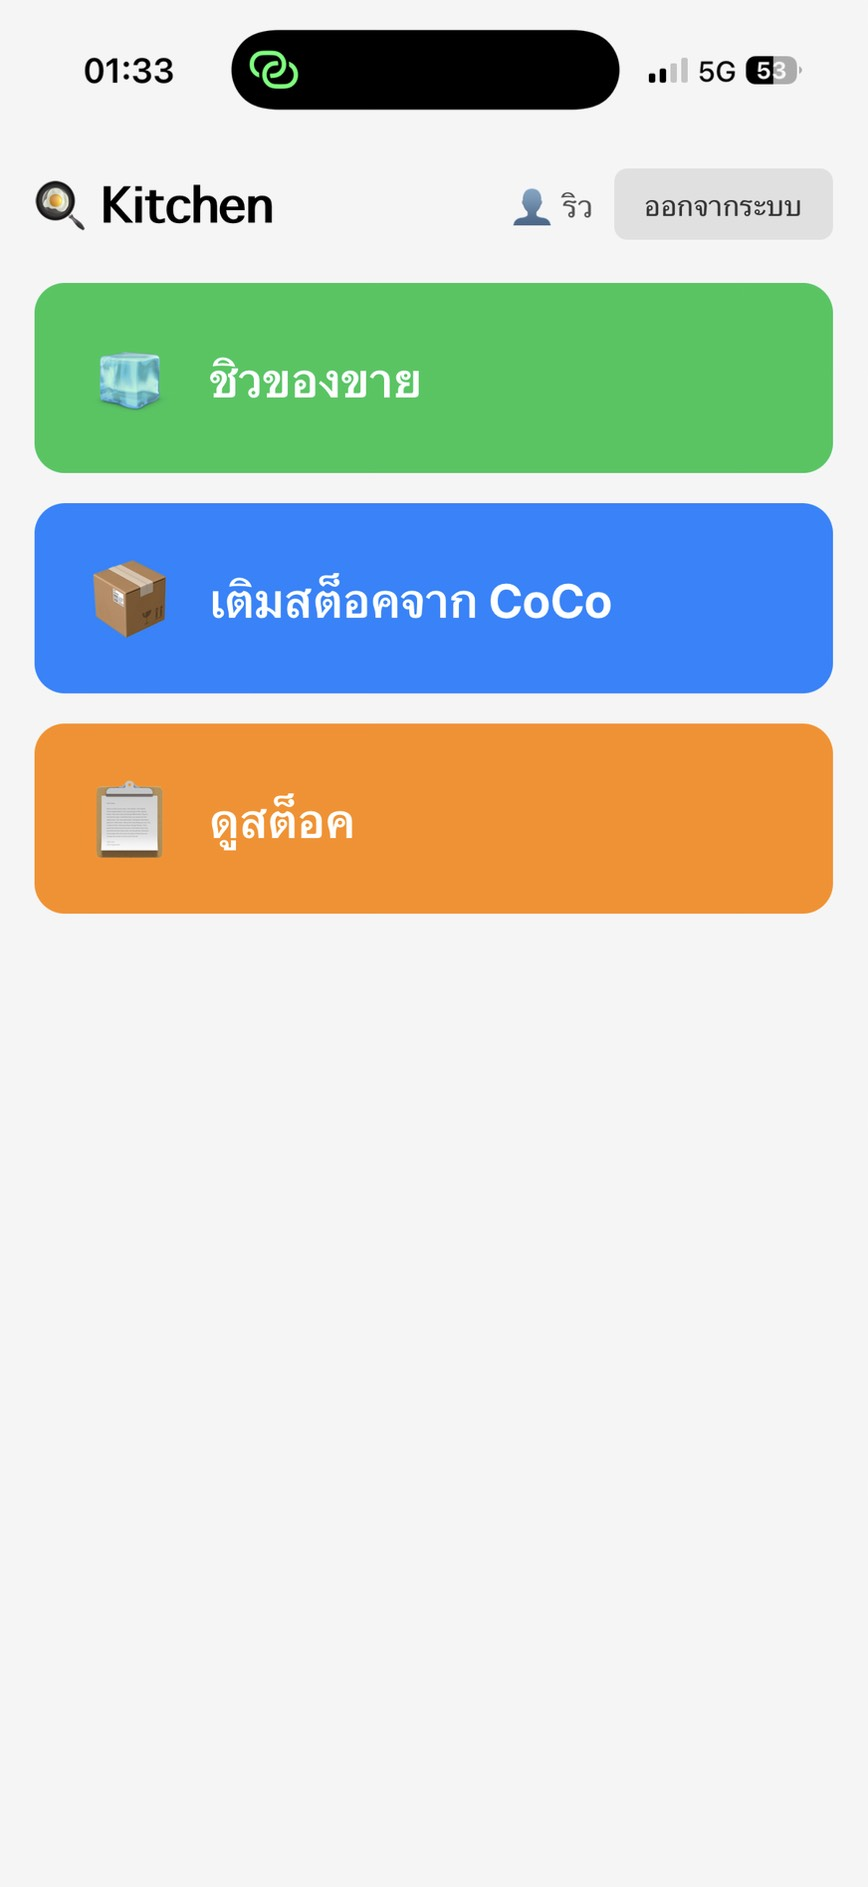
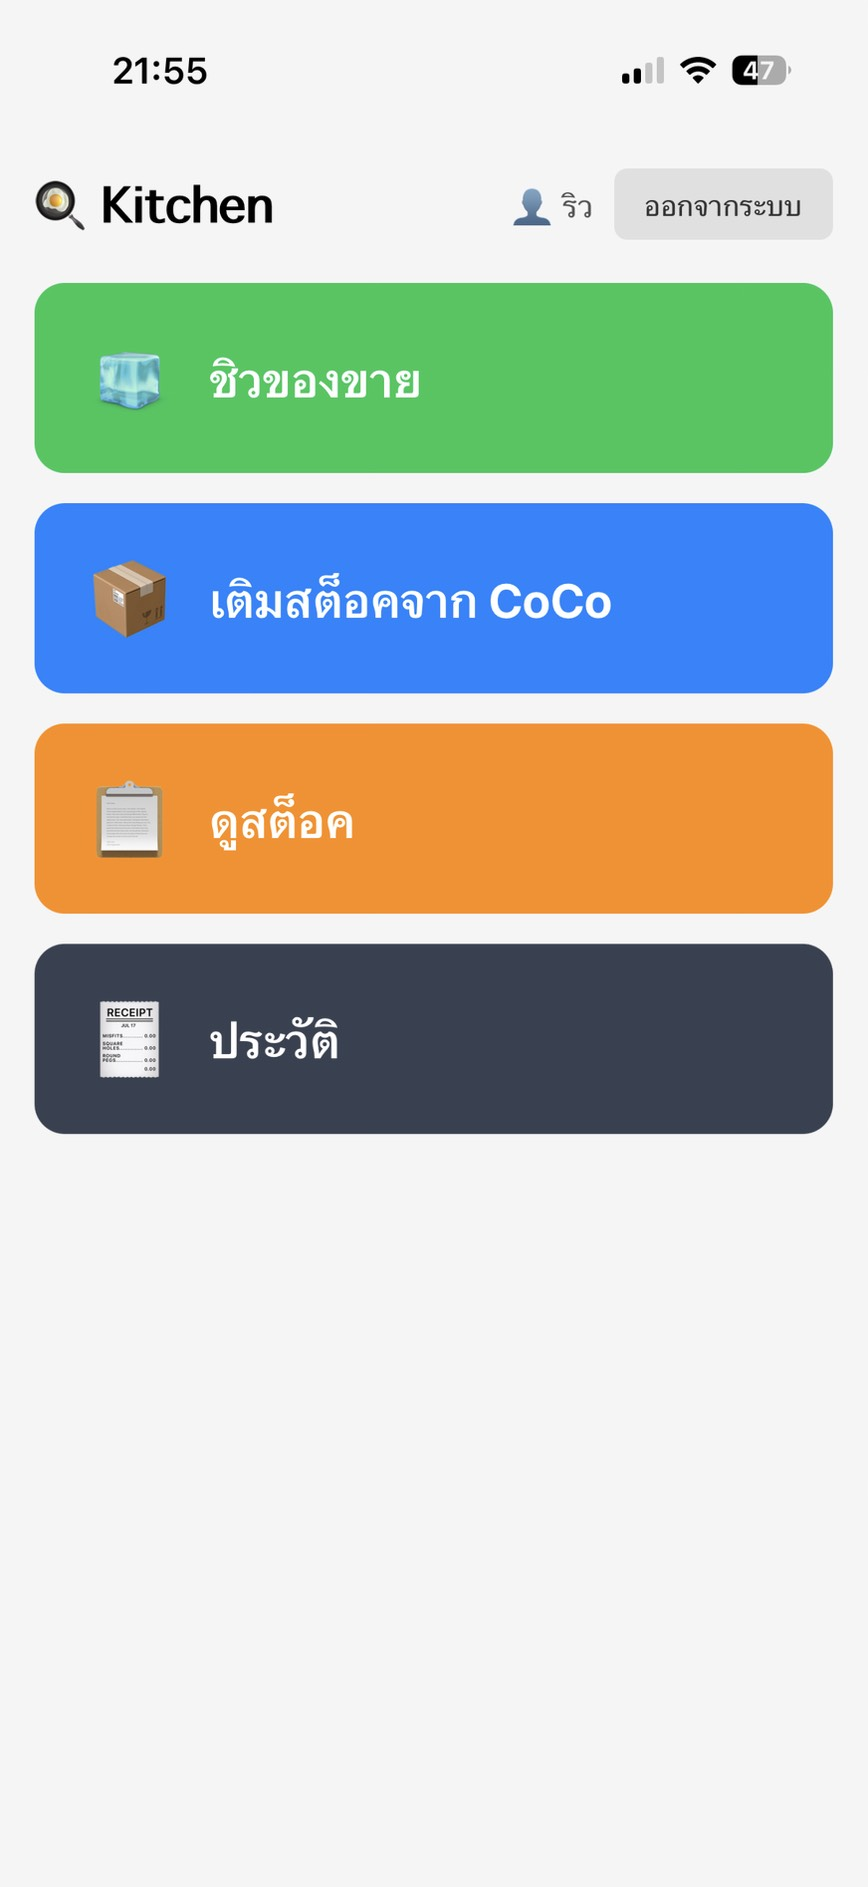
feat: add login & history screenshots, mobile gallery horizontal scroll

Changed region(s): [[0.0311, 0.4918, 0.9643, 0.6147], [0.0933, 0.0, 0.9332, 0.0615]]

diff --git a/data/content.js b/data/content.js
@@ -260,9 +260,11 @@ const PROJECTS = {
       mockup: {
         type: "gallery",
         images: [
-          { src: "assets/kitchenbot/line-alert.jpg?v=2", alt: "LINE Group chat แสดง KitchenBot แจ้งเตือน stock ใกล้หมดในกลุ่มทีมร้านอาหาร" },
+          { src: "assets/kitchenbot/login.jpg",     alt: "หน้า login KitchenBot" },
+          { src: "assets/kitchenbot/menu.jpg",       alt: "หน้าเมนูหลัก KitchenBot — ชิวของขาย เติมสต็อค ดูสต็อค" },
           { src: "assets/kitchenbot/stock-list.jpg", alt: "หน้าจัดการ stock พร้อม badge ใกล้หมดสีแดงของรายการที่ต้องเติม" },
-          { src: "assets/kitchenbot/menu.jpg", alt: "หน้าเมนูหลัก KitchenBot — ชิวของขาย เติมสต็อค ดูสต็อค" },
+          { src: "assets/kitchenbot/line-alert.jpg", alt: "LINE Group chat แสดง KitchenBot แจ้งเตือน stock ใกล้หมดในกลุ่มทีมร้านอาหาร" },
+          { src: "assets/kitchenbot/histiry.jpg",    alt: "หน้าประวัติการเติม stock KitchenBot" },
         ],
       },
     },
@@ -297,9 +299,11 @@ const PROJECTS = {
       mockup: {
         type: "gallery",
         images: [
-          { src: "assets/kitchenbot/line-alert.jpg?v=2", alt: "LINE Group chat showing KitchenBot low-stock alerts live in a restaurant team" },
+          { src: "assets/kitchenbot/login.jpg",     alt: "KitchenBot login screen" },
+          { src: "assets/kitchenbot/menu.jpg",       alt: "KitchenBot main menu — three clear action buttons" },
           { src: "assets/kitchenbot/stock-list.jpg", alt: "Stock management interface with red low-stock badges on items that need restocking" },
-          { src: "assets/kitchenbot/menu.jpg", alt: "KitchenBot main menu — three clear action buttons" },
+          { src: "assets/kitchenbot/line-alert.jpg", alt: "LINE Group chat showing KitchenBot low-stock alerts live in a restaurant team" },
+          { src: "assets/kitchenbot/histiry.jpg",    alt: "KitchenBot stock history view" },
         ],
       },
     },

diff --git a/styles/main.css b/styles/main.css
@@ -1441,12 +1441,26 @@ a.contact__link:hover {
   }
 
   .mockup--gallery {
-    grid-template-columns: 1fr;   /* stack vertically on mobile */
+    display: flex;
+    overflow-x: auto;
+    scroll-snap-type: x mandatory;
+    -webkit-overflow-scrolling: touch;
+    gap: 0.75rem;
+    padding-bottom: 0.5rem;
+  }
+
+  .mockup--gallery img {
+    flex: 0 0 62vw;
+    width: 62vw;
+    aspect-ratio: 9 / 16;
+    object-fit: cover;
+    object-position: top;
+    scroll-snap-align: start;
+    border-radius: 12px;
   }
 
   .mockup--gallery img:first-child {
-    grid-column: span 1;          /* cancel the desktop span */
-    aspect-ratio: 9 / 16;        /* restore portrait ratio */
+    grid-column: unset;
   }
 
   .project-card__head {
